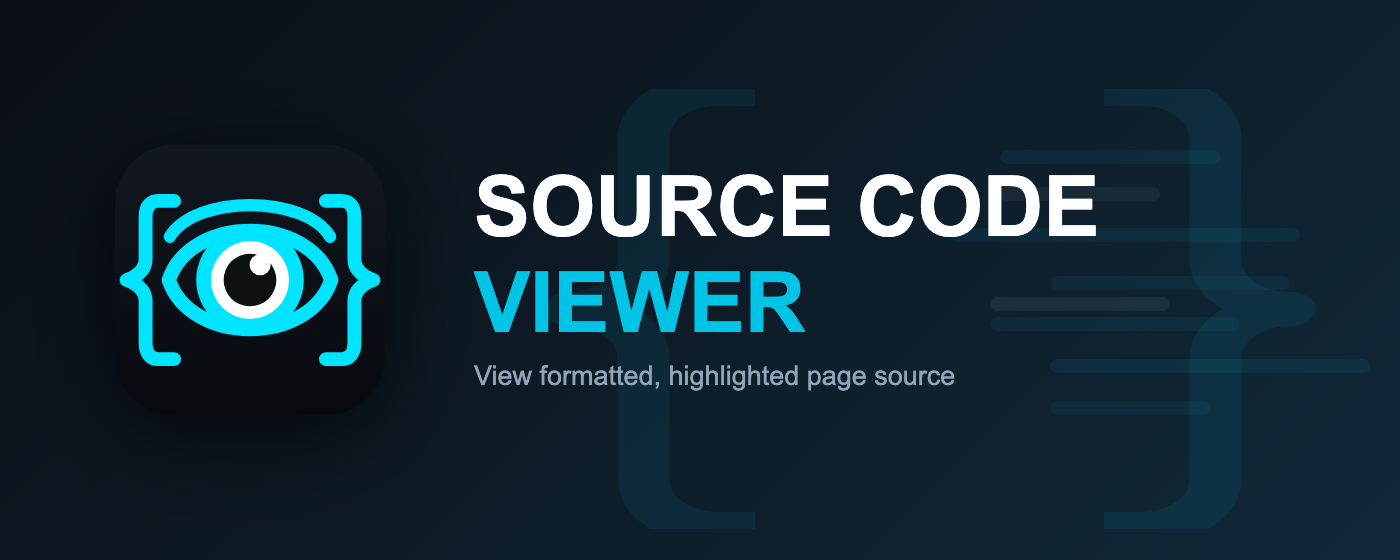
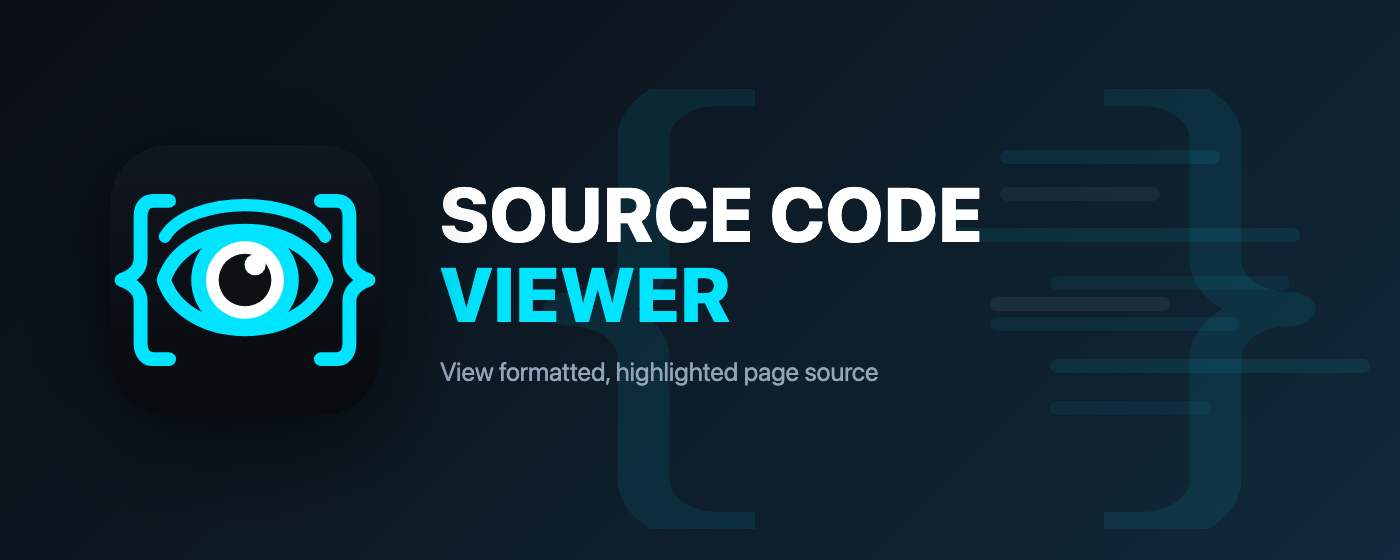
style(promo): align marquee layout and classes with editor template

Changed region(s): [[0.3071, 0.3036, 0.7986, 0.6071], [0.0614, 0.3643, 0.2764, 0.6375], [0.3071, 0.6375, 0.6757, 0.6982]]

diff --git a/scripts/promo/templates/marquee.html b/scripts/promo/templates/marquee.html
@@ -13,8 +13,11 @@
         height: 560px;
         overflow: hidden;
         background: linear-gradient(135deg, #0a0e15 0%, #11293a 100%);
+        display: flex;
+        align-items: center;
+        justify-content: center;
+        font-family: -apple-system, BlinkMacSystemFont, 'Segoe UI', Roboto, Helvetica, Arial, sans-serif;
         position: relative;
-        font-family: Arial, Helvetica, sans-serif;
       }
       /* Background Lucide brackets */
       .brace-left {
@@ -43,12 +46,18 @@
         position: absolute;
         height: 14px;
         border-radius: 7px;
-        background: #00c4e6;
+        background: #00e4ff;
+      }
+      .container {
+        display: flex;
+        align-items: center;
+        gap: 60px;
+        padding: 0 110px;
+        z-index: 1;
+        width: 100%;
       }
       .icon-wrap {
-        position: absolute;
-        left: 115px;
-        top: 145px;
+        flex-shrink: 0;
         width: 270px;
         height: 270px;
         filter: drop-shadow(0 20px 48px rgba(0, 0, 0, 0.7));
@@ -58,34 +67,33 @@
         height: 100%;
         display: block;
       }
-      .text-wrap {
-        position: absolute;
-        left: 474px;
-        top: 145px;
-        height: 260px;
+      .content-wrap {
+        display: flex;
+        flex-direction: column;
+        justify-content: center;
       }
       .title-row {
-        font-size: 84px;
-        font-weight: bold;
-        line-height: 1;
+        font-size: 76px;
+        font-weight: 800;
+        line-height: 1.05;
+        letter-spacing: 0.01em;
         color: #ffffff;
-        margin-top: 20px;
-        letter-spacing: 0;
+        text-transform: uppercase;
       }
       .title-cyan {
-        font-size: 84px;
-        font-weight: bold;
-        line-height: 1;
-        color: #00c4e6;
-        margin-top: 12px;
-        letter-spacing: 0;
+        font-size: 76px;
+        font-weight: 800;
+        line-height: 1.05;
+        letter-spacing: 0.01em;
+        color: #00e4ff;
+        text-transform: uppercase;
+        margin-bottom: 22px;
       }
       .subtitle {
-        font-size: 27px;
-        font-weight: normal;
+        font-size: 26px;
+        font-weight: 400;
         color: #94a3b8;
-        margin-top: 16px;
-        letter-spacing: 0;
+        letter-spacing: -0.01em;
       }
     </style>
   </head>
@@ -95,7 +103,7 @@
       viewBox="1 3 7 18"
       preserveAspectRatio="none"
       fill="none"
-      stroke="#00c4e6"
+      stroke="#00e4ff"
       stroke-width="1.4"
       stroke-linecap="round"
       stroke-linejoin="round"
@@ -108,7 +116,7 @@
       viewBox="16 3 7 18"
       preserveAspectRatio="none"
       fill="none"
-      stroke="#00c4e6"
+      stroke="#00e4ff"
       stroke-width="1.4"
       stroke-linecap="round"
       stroke-linejoin="round"
@@ -126,13 +134,15 @@
       <div class="code-line" style="top: 359px; left: 1050px; width: 320px; opacity: 0.08"></div>
       <div class="code-line" style="top: 401px; left: 1050px; width: 160px; opacity: 0.05"></div>
     </div>
-    <div class="icon-wrap">
-      <img src="{{ICON_DATA_URL}}" alt="Icon" />
-    </div>
-    <div class="text-wrap">
-      <div class="title-row">SOURCE CODE</div>
-      <div class="title-cyan">VIEWER</div>
-      <div class="subtitle">View formatted, highlighted page source</div>
+    <div class="container">
+      <div class="icon-wrap">
+        <img src="{{ICON_DATA_URL}}" alt="Icon" />
+      </div>
+      <div class="content-wrap">
+        <div class="title-row">SOURCE CODE</div>
+        <div class="title-cyan">VIEWER</div>
+        <div class="subtitle">View formatted, highlighted page source</div>
+      </div>
     </div>
   </body>
 </html>
